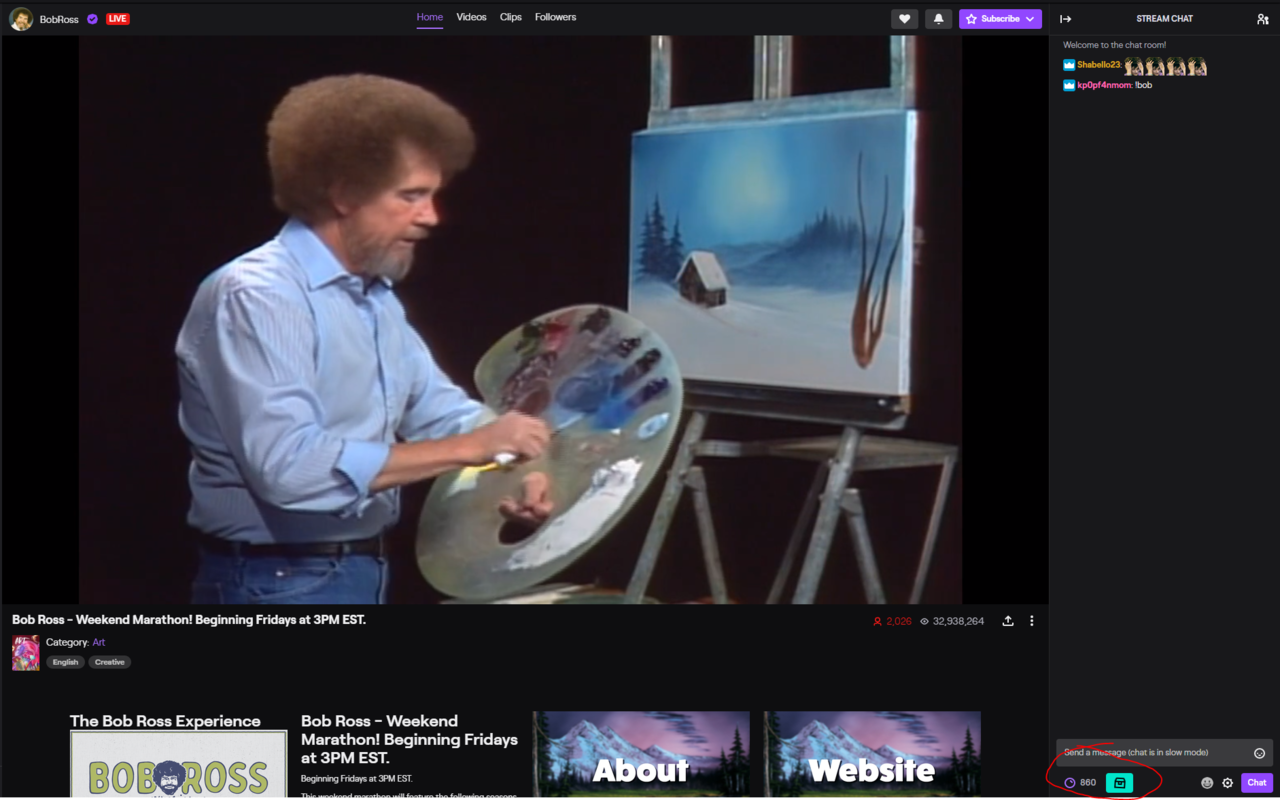
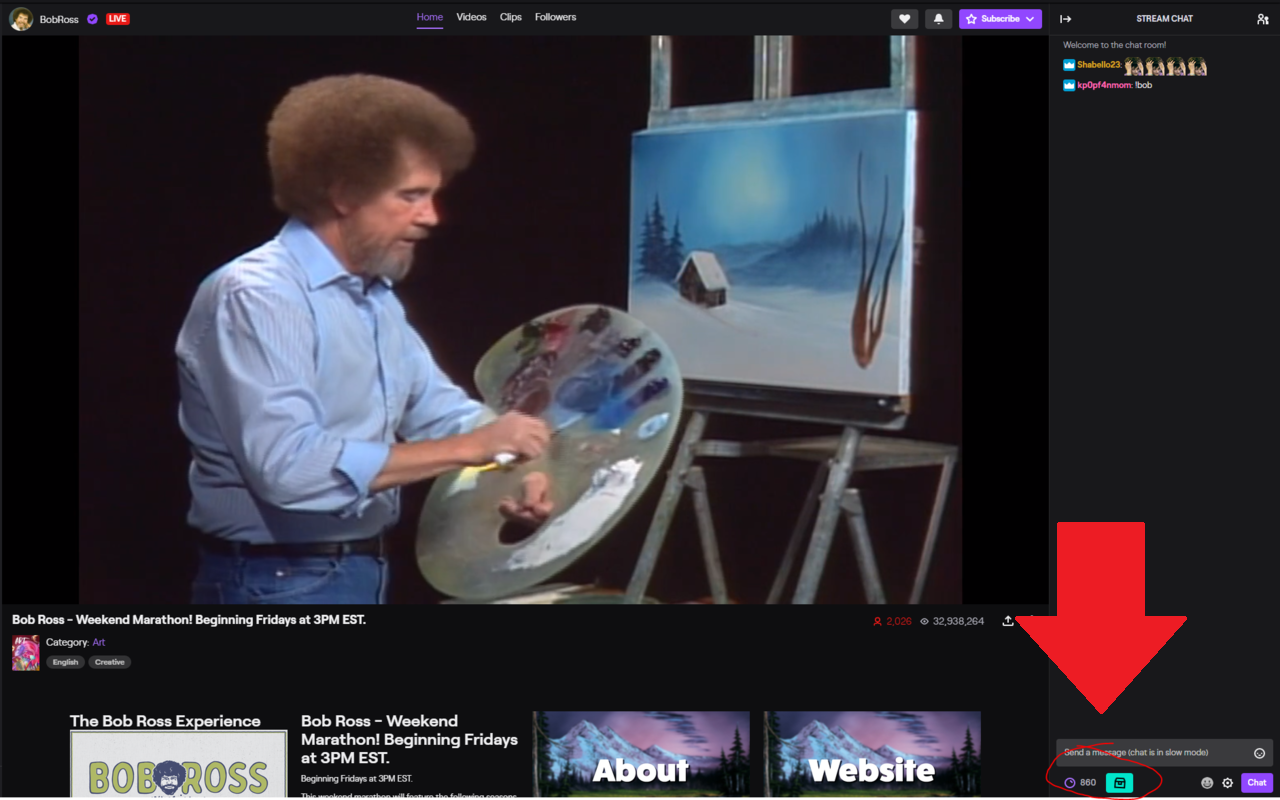
added screenshot to readme

Changed region(s): [[0.7812, 0.625, 0.9375, 0.9062]]

diff --git a/README.md b/README.md
@@ -1,2 +1,4 @@
 # twitch-gift-autoclicker-chrome
 A simple Chrome extension to autoclick the channel points gift button that occasionally shows up.
+
+![Button screenshot](screenshots/Capture_1_1280x800.png)
